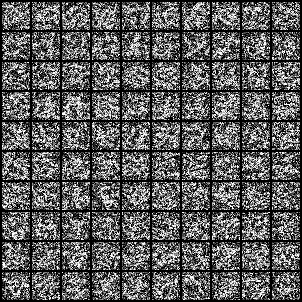
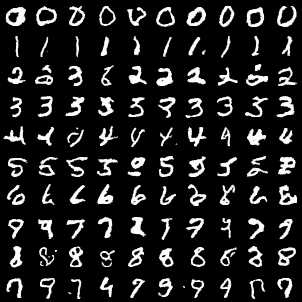
Q2 Working

diff --git a/hw4_step2_main.py b/hw4_step2_main.py
@@ -55,9 +55,11 @@ def sample_cg(model, clf, sched, cls_labels, num_steps, guidance_scale, device="
         beta_t = sched.betas[t_idx]
         x_prev_mean = (1.0 / torch.sqrt(alpha_t)) * (x_t - (beta_t / sqrt_one_minus_abar_t) * eps_guided)
         
-        sigma_t = torch.sqrt(sched.posterior_variance[t_idx].clamp(min=1e-20))
+        # Add noise except for final step (use beta_t as variance)
         if i < num_steps - 1:
-            x_t = (x_prev_mean + sigma_t * torch.randn_like(x_t)).detach().requires_grad_(True)
+            sigma_t = torch.sqrt(beta_t)
+            noise = torch.randn_like(x_t)
+            x_t = (x_prev_mean + sigma_t * noise).detach().requires_grad_(True)
         else:
             x_t = x_prev_mean.detach()
     return (x_t.clamp(-1,1) + 1)/2
@@ -98,9 +100,11 @@ def sample_cfg(model, sched, cls_labels, num_steps, guidance_scale, device="cpu"
         # Compute mean: μ = (1/sqrt(α_t)) * (x_t - (β_t / sqrt(1 - ᾱ_t)) * ϵ̃)
         x_prev_mean = (1.0 / torch.sqrt(alpha_t)) * (x_t - (beta_t / sqrt_one_minus_abar_t) * eps_guided)
 
-        sigma_t = torch.sqrt(sched.posterior_variance[t_idx].clamp(min=1e-20))
+        # Add noise except for final step (use beta_t as variance)
         if i < num_steps - 1:
-            x_t = x_prev_mean + sigma_t * torch.randn_like(x_t)
+            sigma_t = torch.sqrt(beta_t)
+            noise = torch.randn_like(x_t)
+            x_t = x_prev_mean + sigma_t * noise
         else:
             x_t = x_prev_mean
 
